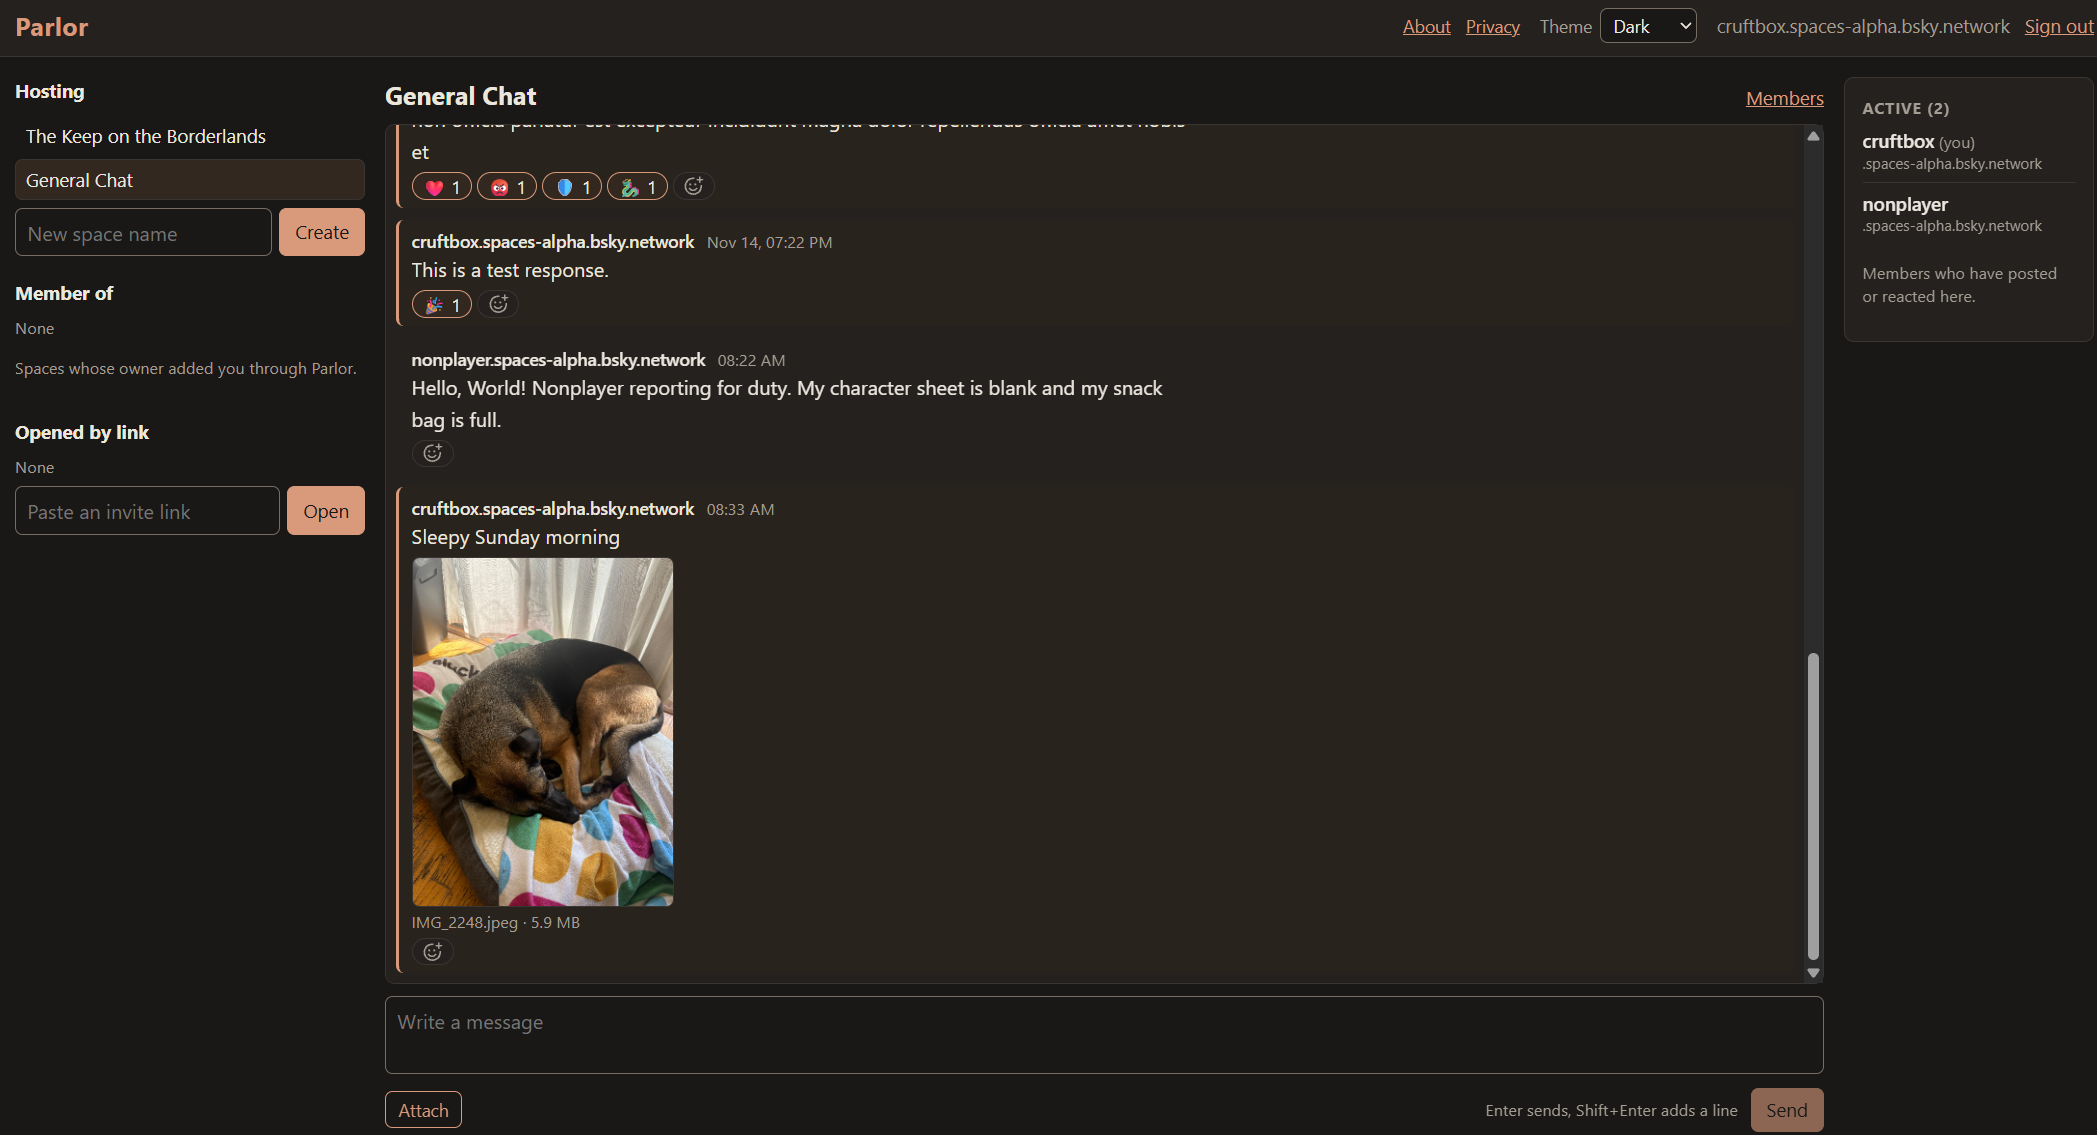
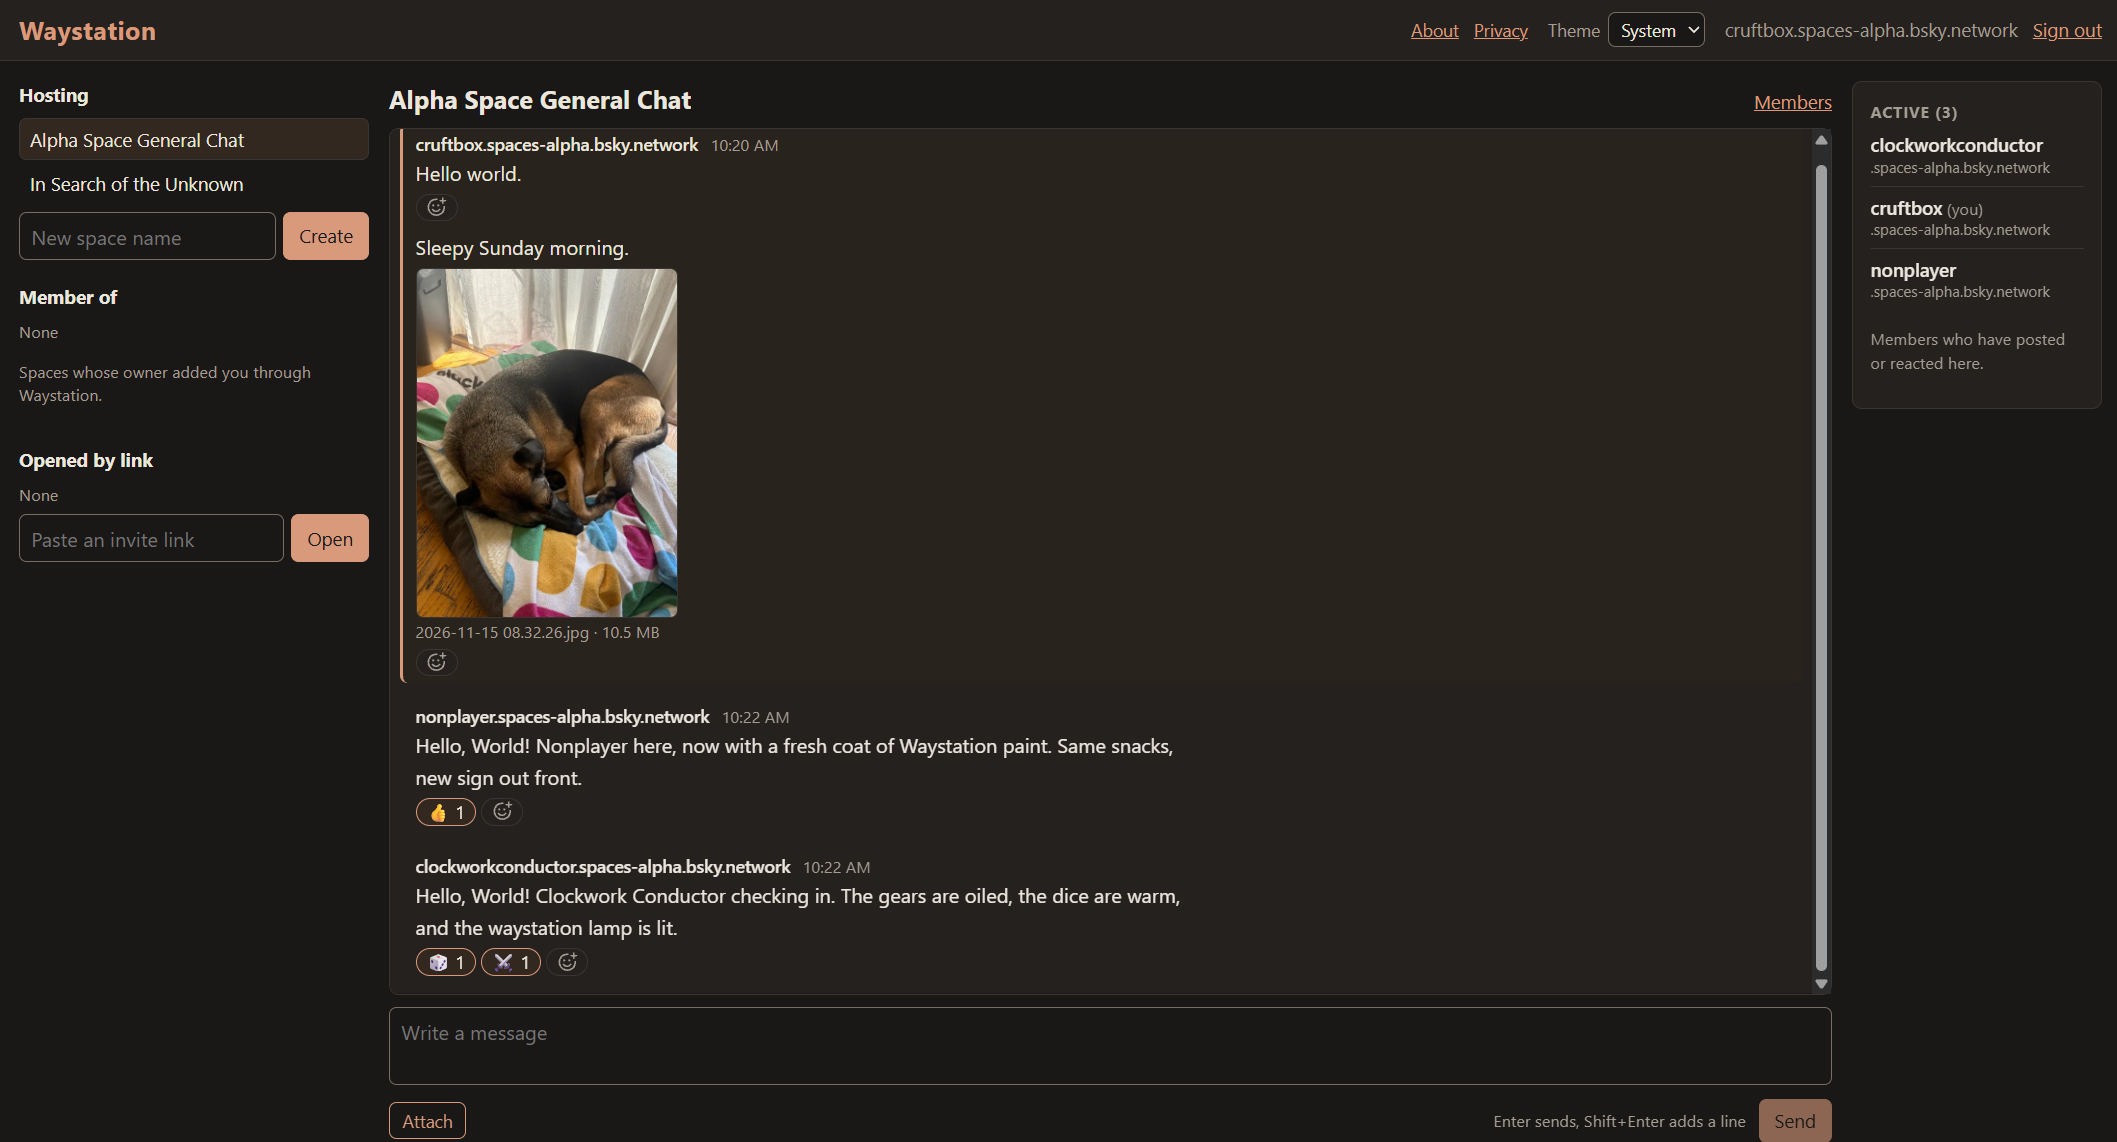
README screenshots show Waystation
Claude-Session: https://claude.ai/code/session_01Ceojz1J62FAXoUAL5xVuFt

diff --git a/README.md b/README.md
@@ -6,7 +6,7 @@ A lightweight chat client for atproto Spaces. People sign in with their atproto 
 
 <p>
   <img src="docs/screenshots/desktop-dark.png" width="640" alt="Waystation on a desktop in dark mode: the space list on the left, a chat with reactions and an image in the middle, and the Active members panel on the right">
-  <img src="docs/screenshots/mobile-light.png" width="180" alt="Waystation on a phone in light mode: a chat with a reaction and an image, above the message composer">
+  <img src="docs/screenshots/mobile-light.png" width="180" alt="Waystation on a phone in light mode: the space list above a chat with an image and a message">
 </p>
 
 Status: works against the Spaces alpha sandbox. Spaces enters public beta on 2026-12-01; expect changes. See [SCOPE.md](SCOPE.md) for decisions and plan, and [DEPLOY.md](DEPLOY.md) for the server setup.
